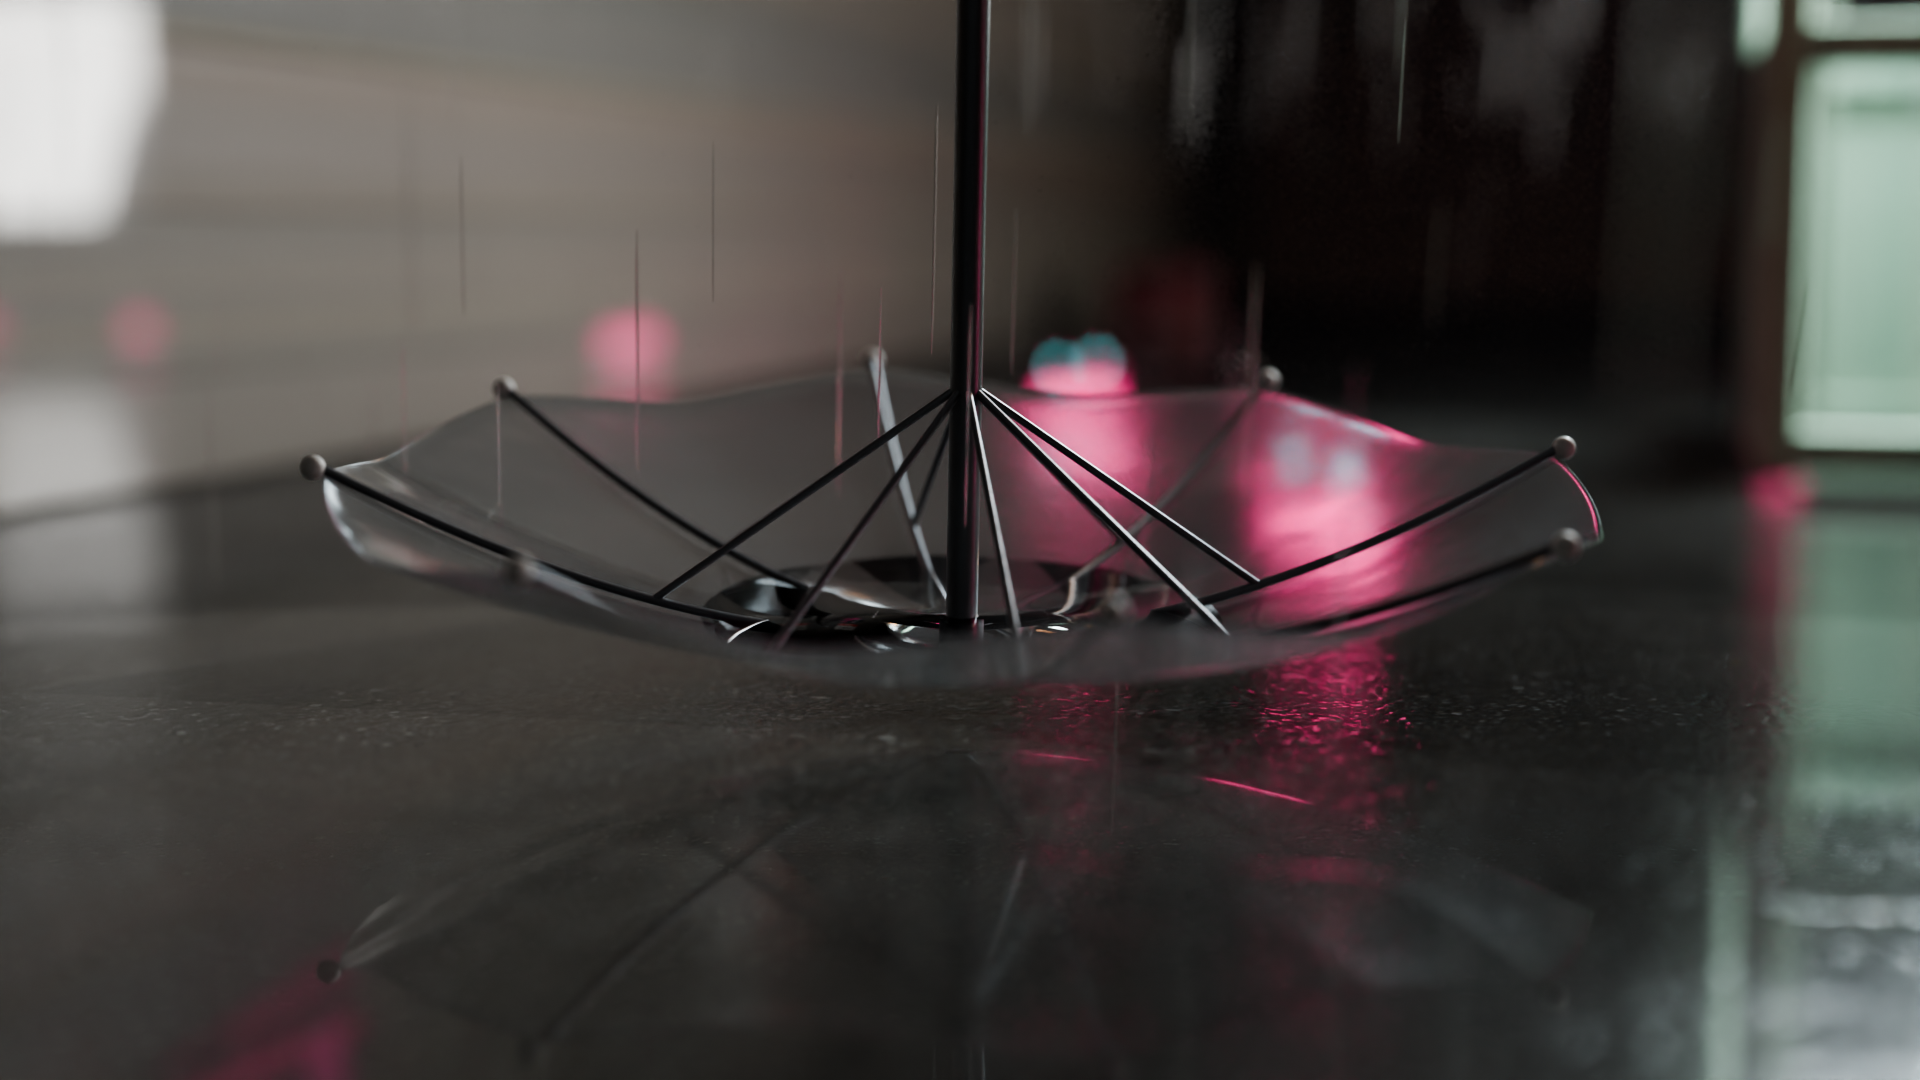
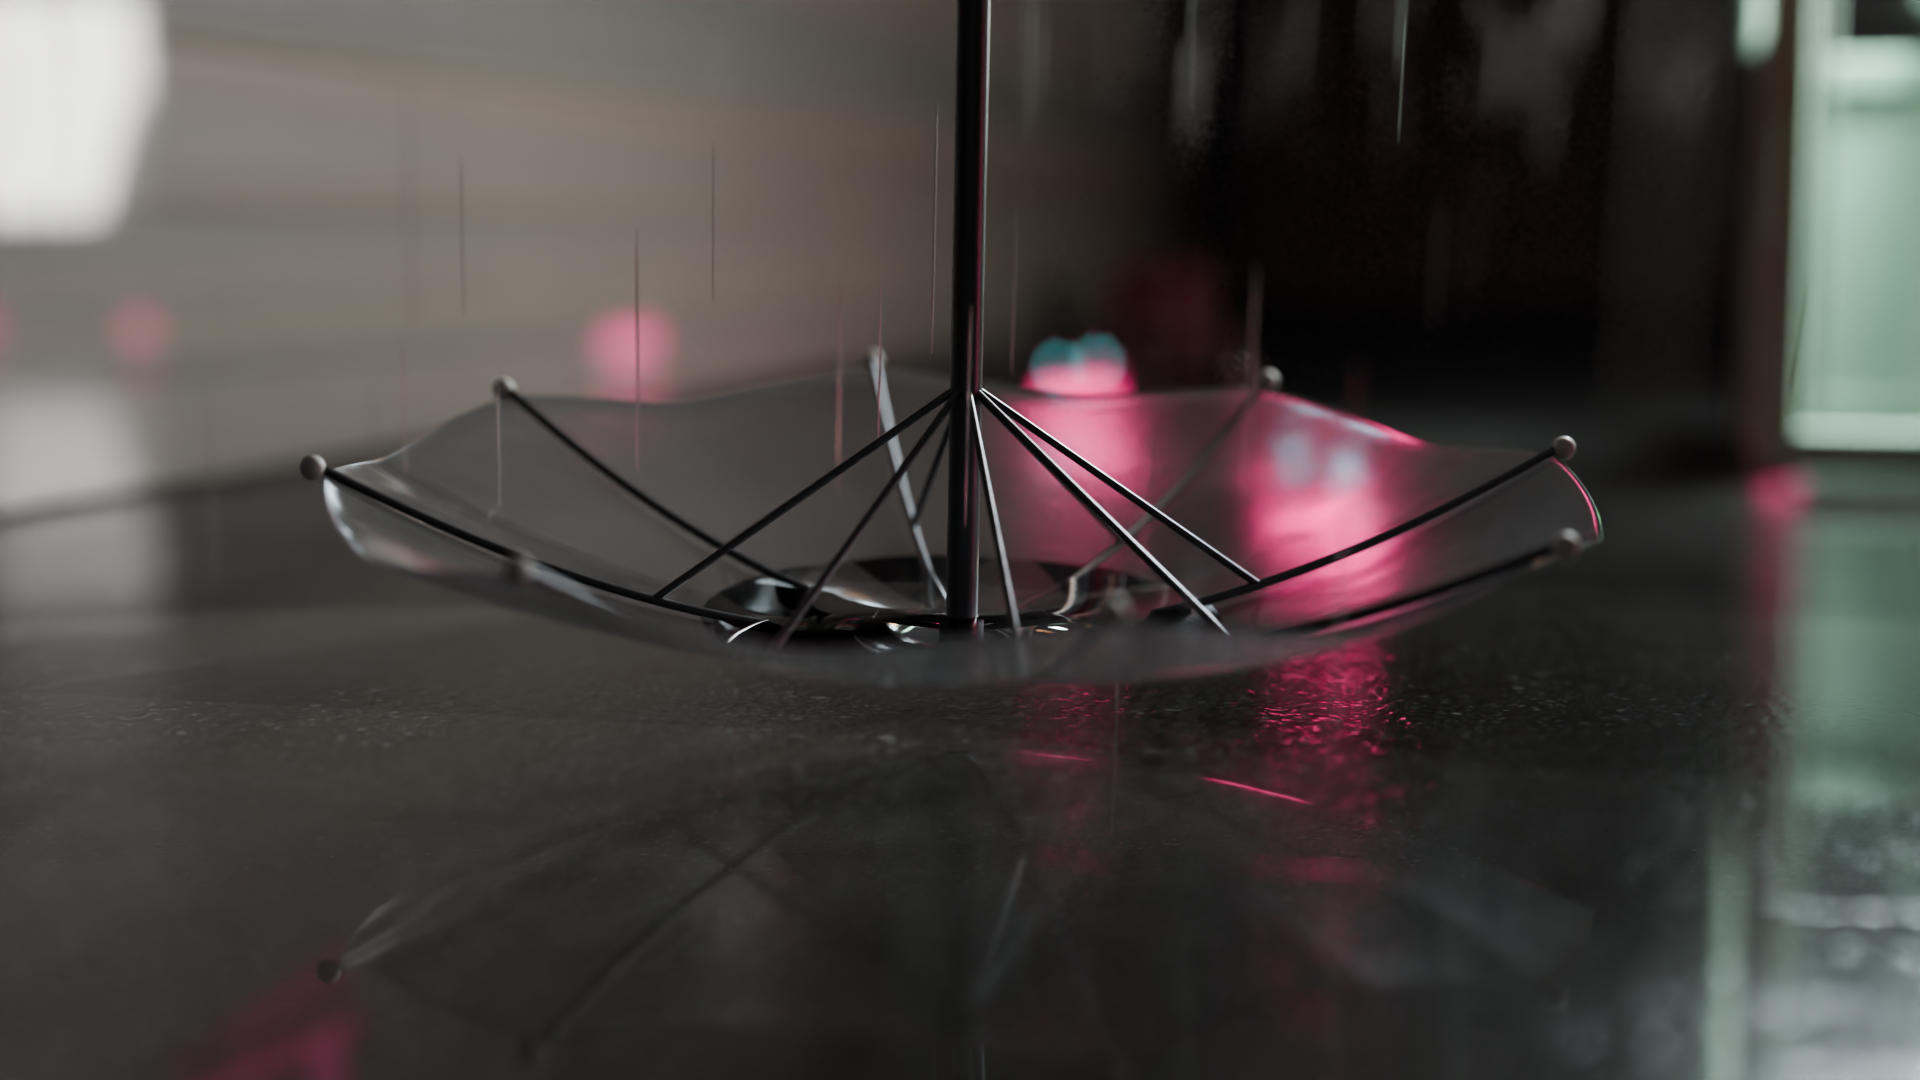
S4 stills with the green payphone; CREDITS for the CC BY and CC0 assets

diff --git a/docs/CREDITS.md b/docs/CREDITS.md
@@ -1,0 +1,62 @@
+# Credits
+
+The sets are built by the scripts in `scripts/`. Where they use other people's work, it is listed here.
+`scripts/fetch_assets.py` downloads all of it; none of it is stored in this repository.
+
+## CC BY 4.0 (attribution required)
+
+The video's description must carry these lines.
+
+| Asset | Author | Source | Changes made |
+|---|---|---|---|
+| 国鉄キハ32形気動車 KIHA 32 Diesel | own.guest | <https://sketchfab.com/3d-models/32-kiha-32-diesel-95c5d6515ff04092987d698ab2c8442a> | Recoloured to the JNR cream and vermilion livery, windows made transparent, an interior added, scaled to 1:12 × 1.1 |
+| Old Green Payphone | Yevhen Avramenko | <https://sketchfab.com/3d-models/old-green-payphone-ad06f3ec91a24943ad4a38dd70413cda> | Handset taken off the hook and hung lower, the cord replaced |
+| MaterialsVariantsShoe (glTF sample) | © 2021 Shopify | <https://github.com/KhronosGroup/glTF-Sample-Assets/tree/main/Models/MaterialsVariantsShoe> | Recoloured white, a ballpoint drawing added on the toe |
+
+Licence: <https://creativecommons.org/licenses/by/4.0/>. The two Sketchfab models are fetched from the
+Objaverse copy on Hugging Face (`allenai/objaverse`), which keeps each model's original licence.
+
+Suggested description text:
+
+```
+3D models (CC BY 4.0): "国鉄キハ32形気動車 KIHA 32 Diesel" by own.guest, "Old Green Payphone" by Yevhen Avramenko
+(Sketchfab); "MaterialsVariantsShoe" © 2021 Shopify (Khronos glTF Sample Assets). Modified: recoloured, rescaled, parts moved.
+Textures, HDRI and props: Poly Haven (CC0).
+```
+
+## CC0 (Poly Haven)
+
+No attribution is required. They are credited here anyway. <https://polyhaven.com/license>
+
+**Textures**
+- Concrete Floor 01, Brown Planks 03, Rusty Metal 02, Asphalt 02, Decrepit Wallpaper: Rob Tuytel
+- Brick Wall 001: Rob Tuytel, Dimitrios Savva
+- Brushed Concrete: Dario Barresi, Dimitrios Savva
+- Gravel Floor: Jenelle van Heerden, Matterfield
+- Rusty Painted Metal, Dark Wooden Planks: Amal Kumar
+- Rusty Corrugated Iron: Charlotte Baglioni
+- Peeling Painted Wall, Wood Floor Worn: Dimitrios Savva
+- Corrugated Iron 02: Jenelle van Heerden, Sergej Majboroda
+- Cotton Jersey, Rough Linen, Crepe Satin: colormass, Rico Cilliers
+
+**HDRI**
+- Industrial Sunset: Sergej Majboroda
+
+**Models**
+- Painted Wooden Bench: Kirill Sannikov
+- Modular Chainlink Fence: James Ray Cock, Amal Kumar
+- Modular Electricity Poles, Utility Box 01, Wooden Crate 01, Standing Picture Frame 01, Hanging Picture Frame 01: James Ray Cock
+- Power Box 01: Rico Cilliers, Yann Kervran
+- Cardboard Box 01: Rahul Chaudhary
+- Trashbag: Benny Weimer
+- Plastic Crate 01, Wall Clock: PierreB3D
+- Street Lamp 02: Josh Dean
+- Old Bed Frame: Luca B
+- Small Wooden Table 01: Ulan Cabanilla
+- Painted Wooden Chair 01: Kuutti Siitonen
+- Desk Lamp Arm 01: Yann Kervran, Kuutti Siitonen
+
+## Fonts
+
+Yu Mincho, Yu Gothic and Consolas (Microsoft) and DIN Next (Monotype) are the system fonts of the machine
+that renders. They are not redistributed. Text set in them appears in the renders only.
